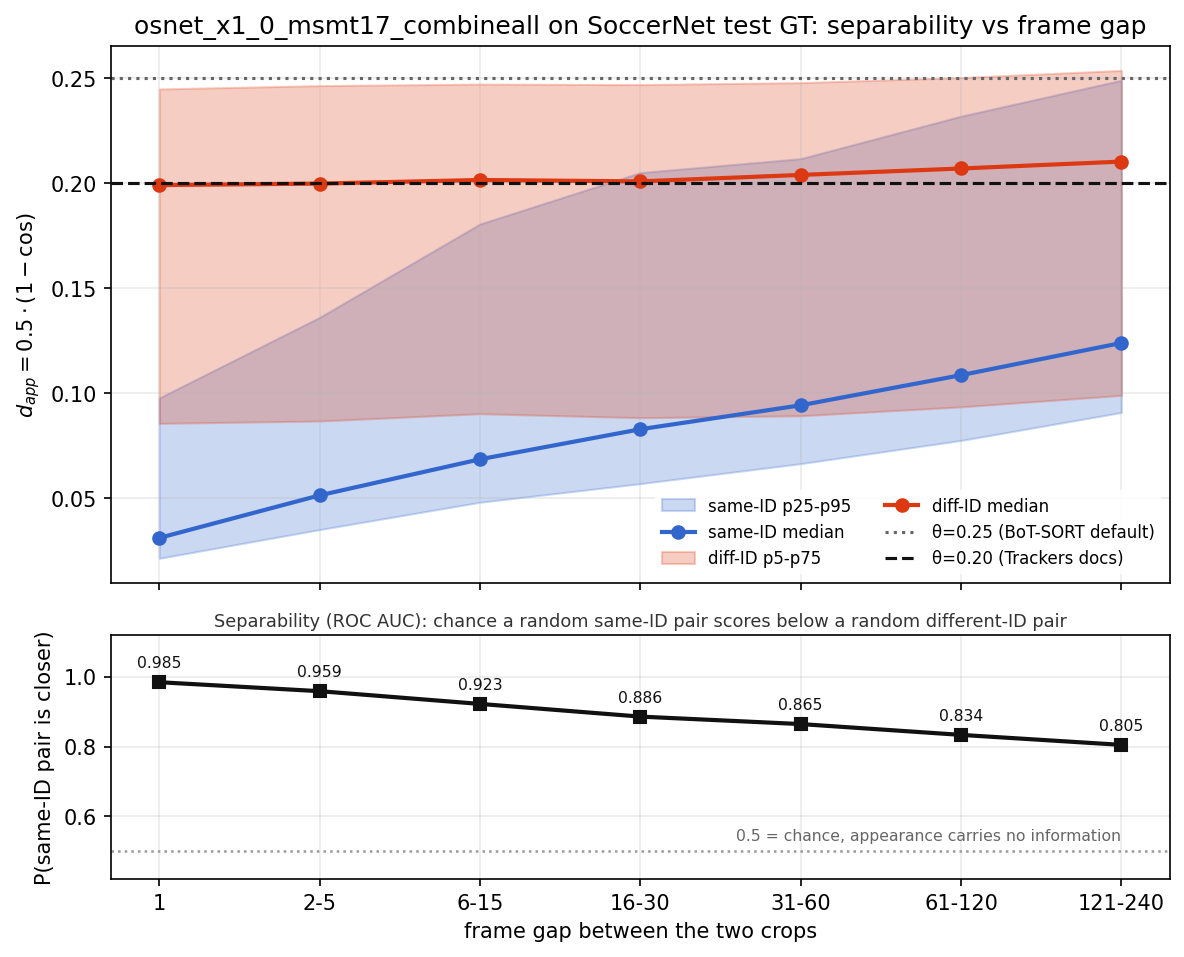
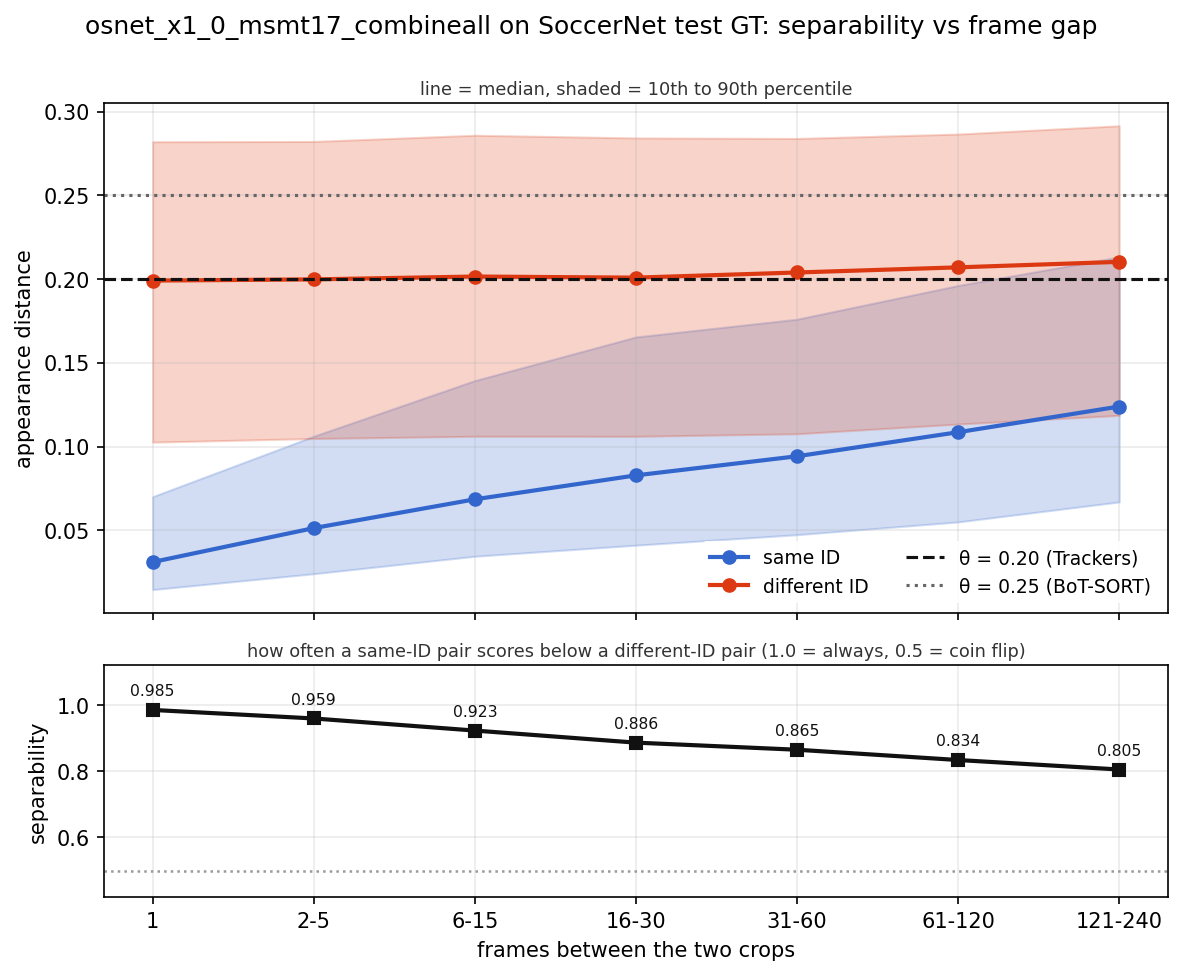
docs(reid): simplify the frame-gap sweep figure
The legend carried six entries and two different percentile bands, one 25 to 95
and the other 5 to 75, so reading the two classes meant holding two conventions
at once. The axes were named after their formulas rather than what they show.

Use one symmetric 10th to 90th band for both classes and fold each band into its
line, leaving four legend entries. Name the axes "appearance distance" and
"separability", and move the definitions into small subtitles.

diff --git a/notebooks/plot_reid_appearance_distances.py b/notebooks/plot_reid_appearance_distances.py
@@ -44,6 +44,9 @@ BINS = np.linspace(0.0, 1.0, 51)
 # (30 frames); the rest probe re-association after longer occlusions.
 GAP_BUCKETS = [(1, 1), (2, 5), (6, 15), (16, 30), (31, 60), (61, 120), (121, 240)]
 N_SWEEP_PER_CLASS = 8000
+# Symmetric band so both classes are read the same way, wide enough to show the
+# tails that decide where the two distributions start to overlap.
+BAND_PERCENTILES = (10, 90)
 
 MOT17_VAL_SEQS = [
     "MOT17-02-FRCNN",
@@ -373,21 +376,29 @@ def plot_gap_sweep(rows: list[dict[str, object]], *, title: str, out_path: Path)
     """
     labels = [r["label"] for r in rows]
     x = np.arange(len(rows))
-    intra_q = np.array([np.percentile(r["intra"], [25, 50, 95]) for r in rows])
-    inter_q = np.array([np.percentile(r["inter"], [5, 50, 75]) for r in rows])
+    lo_pct, hi_pct = BAND_PERCENTILES
+    intra_q = np.array([np.percentile(r["intra"], [lo_pct, 50, hi_pct]) for r in rows])
+    inter_q = np.array([np.percentile(r["inter"], [lo_pct, 50, hi_pct]) for r in rows])
 
     fig, (ax_dist, ax_auc) = plt.subplots(
         2, 1, figsize=(8, 6.5), sharex=True, gridspec_kw={"height_ratios": [2.2, 1.0]}
     )
 
-    ax_dist.fill_between(x, intra_q[:, 0], intra_q[:, 2], color="#3366CC", alpha=0.25, label="same-ID p25-p95")
-    ax_dist.plot(x, intra_q[:, 1], color="#3366CC", marker="o", lw=2, label="same-ID median")
-    ax_dist.fill_between(x, inter_q[:, 0], inter_q[:, 2], color="#DC3912", alpha=0.25, label="diff-ID p5-p75")
-    ax_dist.plot(x, inter_q[:, 1], color="#DC3912", marker="o", lw=2, label="diff-ID median")
-    ax_dist.axhline(0.25, color="#666666", ls=":", lw=1.5, label="θ=0.25 (BoT-SORT default)")
-    ax_dist.axhline(0.20, color="#111111", ls="--", lw=1.5, label="θ=0.20 (Trackers docs)")
-    ax_dist.set(ylabel=r"$d_{app} = 0.5\cdot(1-\cos)$", title=title)
-    ax_dist.legend(loc="lower right", fontsize=8, ncol=2, framealpha=0.92, edgecolor="none")
+    ax_dist.fill_between(x, intra_q[:, 0], intra_q[:, 2], color="#3366CC", alpha=0.22)
+    ax_dist.plot(x, intra_q[:, 1], color="#3366CC", marker="o", lw=2, label="same ID")
+    ax_dist.fill_between(x, inter_q[:, 0], inter_q[:, 2], color="#DC3912", alpha=0.22)
+    ax_dist.plot(x, inter_q[:, 1], color="#DC3912", marker="o", lw=2, label="different ID")
+    ax_dist.axhline(0.20, color="#111111", ls="--", lw=1.5, label="θ = 0.20 (Trackers)")
+    ax_dist.axhline(0.25, color="#666666", ls=":", lw=1.5, label="θ = 0.25 (BoT-SORT)")
+    ax_dist.set(ylabel="appearance distance")
+    ax_dist.set_title(
+        f"line = median, shaded = {lo_pct}th to {hi_pct}th percentile",
+        fontsize=8.5,
+        color="#333333",
+        pad=4,
+    )
+    fig.suptitle(title, y=0.995)
+    ax_dist.legend(loc="lower right", fontsize=9, ncol=2, framealpha=0.92, edgecolor="none")
     ax_dist.grid(True, alpha=0.25)
 
     aucs = [r["auc"] for r in rows]
@@ -403,24 +414,15 @@ def plot_gap_sweep(rows: list[dict[str, object]], *, title: str, out_path: Path)
             color="#111111",
         )
     ax_auc.axhline(0.5, color="#999999", ls=":", lw=1.2)
-    ax_auc.annotate(
-        "0.5 = chance, appearance carries no information",
-        (len(rows) - 1, 0.5),
-        textcoords="offset points",
-        xytext=(0, 5),
-        ha="right",
-        fontsize=7.5,
-        color="#666666",
-    )
     ax_auc.set(
-        xlabel="frame gap between the two crops",
-        ylabel="P(same-ID pair is closer)",
+        xlabel="frames between the two crops",
+        ylabel="separability",
         ylim=(0.42, 1.12),
         xticks=x,
         xticklabels=labels,
     )
     ax_auc.set_title(
-        "Separability (ROC AUC): chance a random same-ID pair scores below a random different-ID pair",
+        "how often a same-ID pair scores below a different-ID pair (1.0 = always, 0.5 = coin flip)",
         fontsize=8.5,
         color="#333333",
         pad=4,
@@ -432,13 +434,14 @@ def plot_gap_sweep(rows: list[dict[str, object]], *, title: str, out_path: Path)
     fig.savefig(out_path, dpi=150, bbox_inches="tight")
     plt.close(fig)
     print(f"Wrote {out_path}")
-    header = f"  {'gap':>8} {'AUC':>6} {'same p50':>9} {'same p95':>9} {'diff p5':>8}"
+    header = f"  {'gap':>8} {'AUC':>6} {'same p50':>9} {f'same p{hi_pct}':>9} {f'diff p{lo_pct}':>9}"
     print(f"{header} {'T<0.20':>7} {'F<0.20':>7} {'T<0.25':>7} {'F<0.25':>7}")
     for r in rows:
         intra, inter = r["intra"], r["inter"]
         print(
-            f"  {r['label']:>8} {r['auc']:6.3f} {np.median(intra):9.3f} {np.percentile(intra, 95):9.3f} "
-            f"{np.percentile(inter, 5):8.3f} {100 * np.mean(intra < 0.20):6.1f}% {100 * np.mean(inter < 0.20):6.1f}% "
+            f"  {r['label']:>8} {r['auc']:6.3f} {np.median(intra):9.3f} {np.percentile(intra, hi_pct):9.3f} "
+            f"{np.percentile(inter, lo_pct):9.3f} {100 * np.mean(intra < 0.20):6.1f}% "
+            f"{100 * np.mean(inter < 0.20):6.1f}% "
             f"{100 * np.mean(intra < 0.25):6.1f}% {100 * np.mean(inter < 0.25):6.1f}%"
         )
 

diff --git a/docs/learn/reid.md b/docs/learn/reid.md
@@ -114,7 +114,7 @@ horizon. Sweeping the gap shows how long a track can stay lost before appearance
 stops helping to re-find it.
 
 On MOT17 val, different-ID distances barely move with the gap: the median stays
-near 0.41 and the 5th percentile near 0.27 from a 1-frame gap out to 240 frames.
+near 0.41 and the 10th percentile near 0.31 from a 1-frame gap out to 240 frames.
 Same-ID distances spread steadily, from a median of 0.04 at a 1-frame gap to 0.20
 across the 16 to 30 band and 0.28 beyond 120 frames.
 
